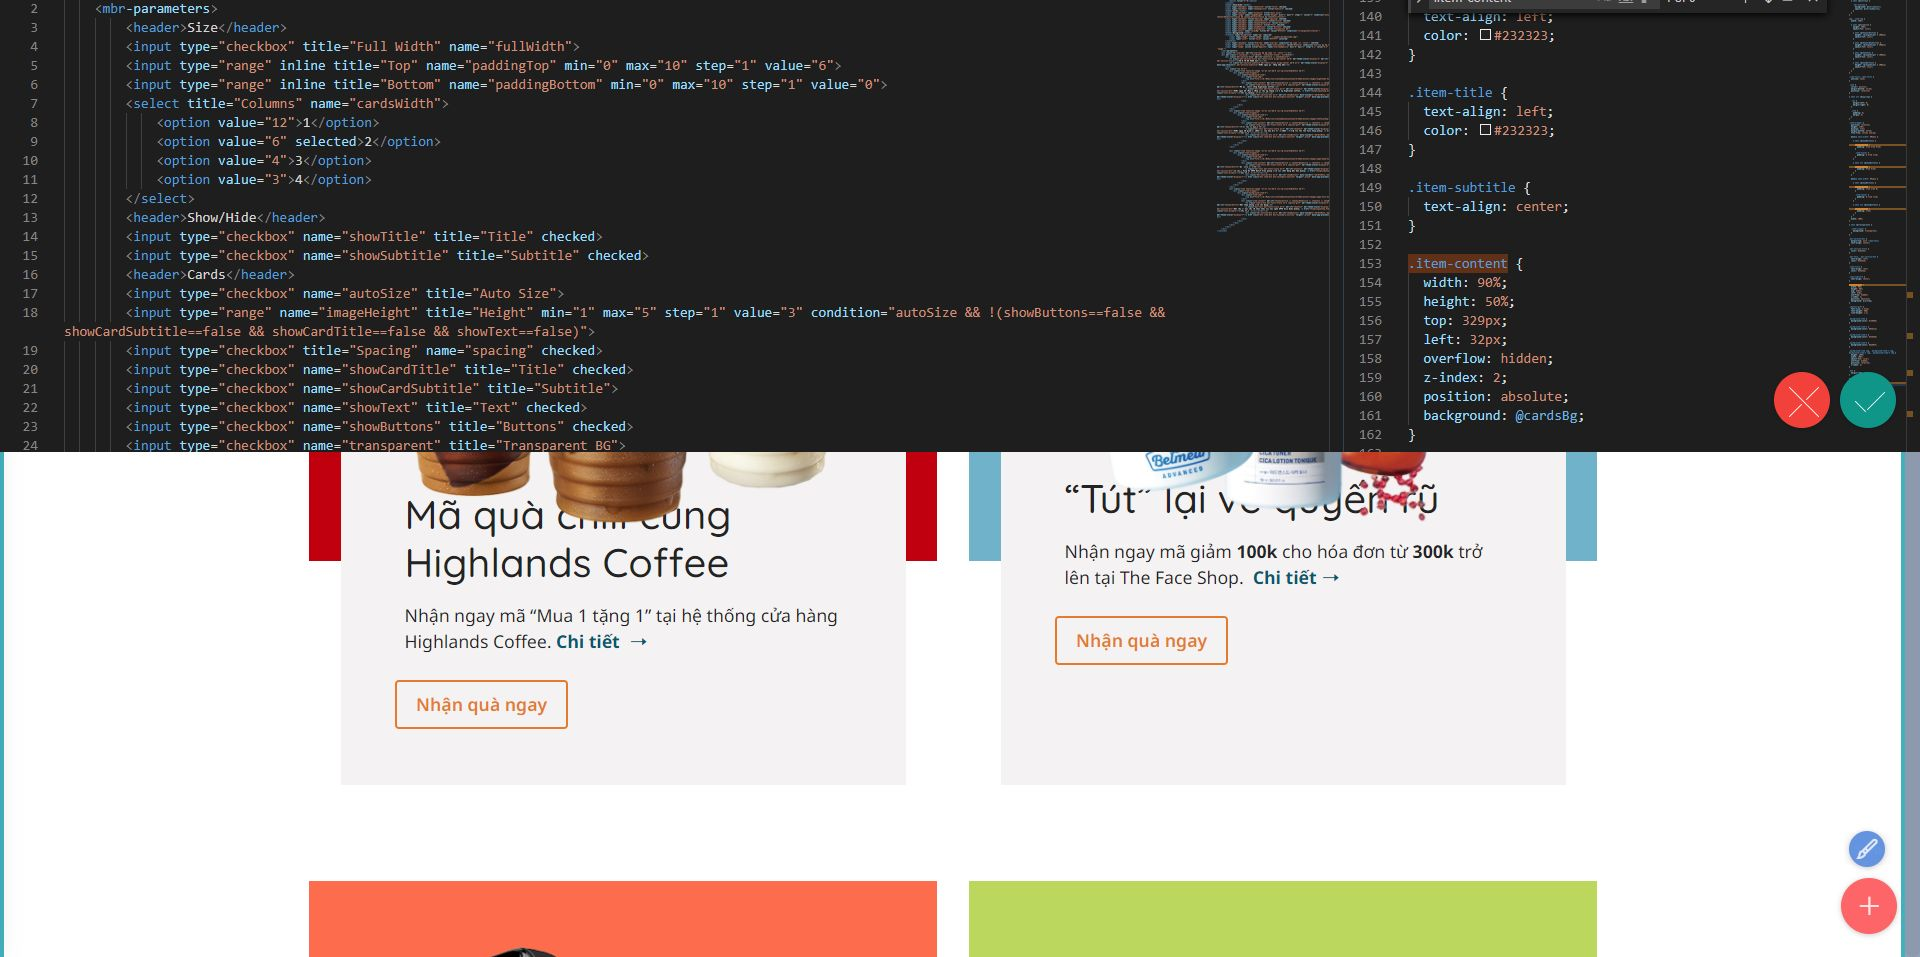
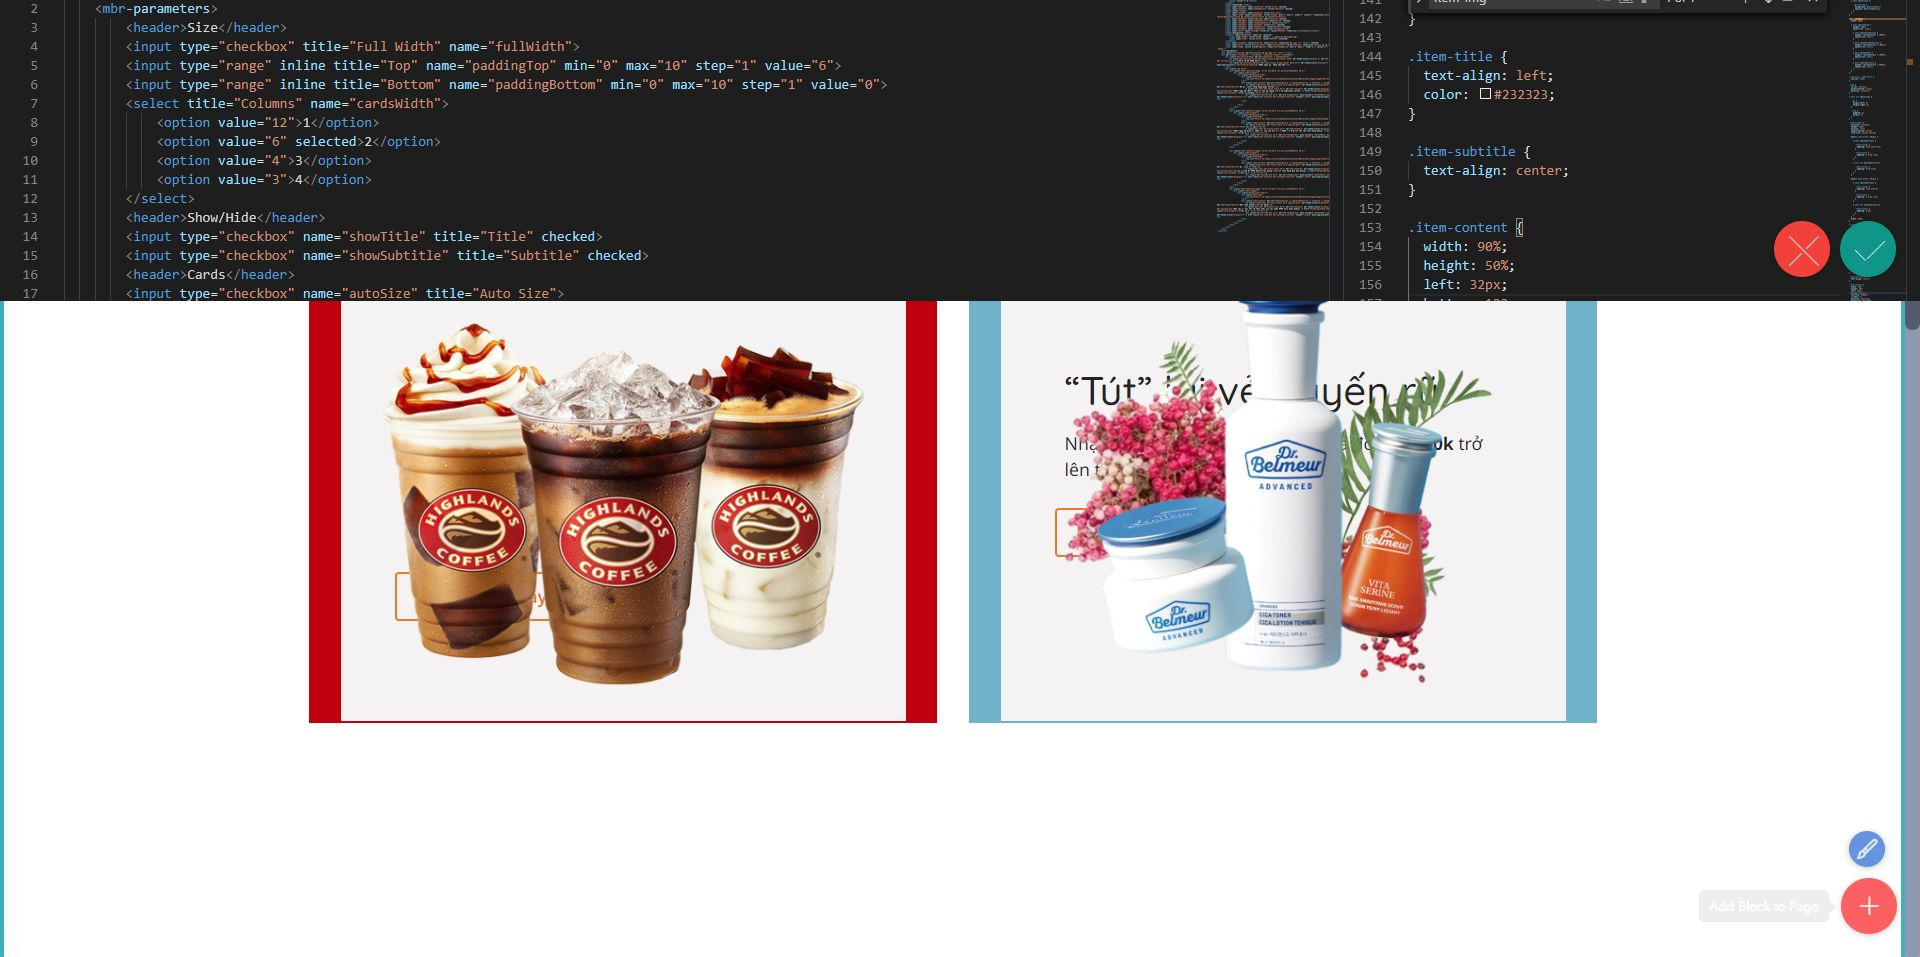
update
laptop breakpoint - homepage

diff --git a/2022/assets/mobirise/css/mbr-additional.css b/2022/assets/mobirise/css/mbr-additional.css
@@ -759,8 +759,8 @@ a {
 .cid-t4bEbogkl1 .item-content {
   width: 90%;
   height: 50%;
-  top: 329px;
   left: 32px;
+  bottom: 122px;
   overflow: hidden;
   z-index: 2;
   position: absolute;
@@ -796,14 +796,6 @@ a {
 }
 .cid-t4bEbogkl1 .btn {
   margin-left: 0;
-}
-@media (max-width: 991px) {
-  .cid-t4bEbogkl1 .item-content {
-    top: 270px;
-  }
-  .cid-t4bEbogkl1 .item-wrapper {
-    margin-bottom: 18rem;
-  }
 }
 .cid-svgZgNX5Wz {
   padding-top: 1rem;
